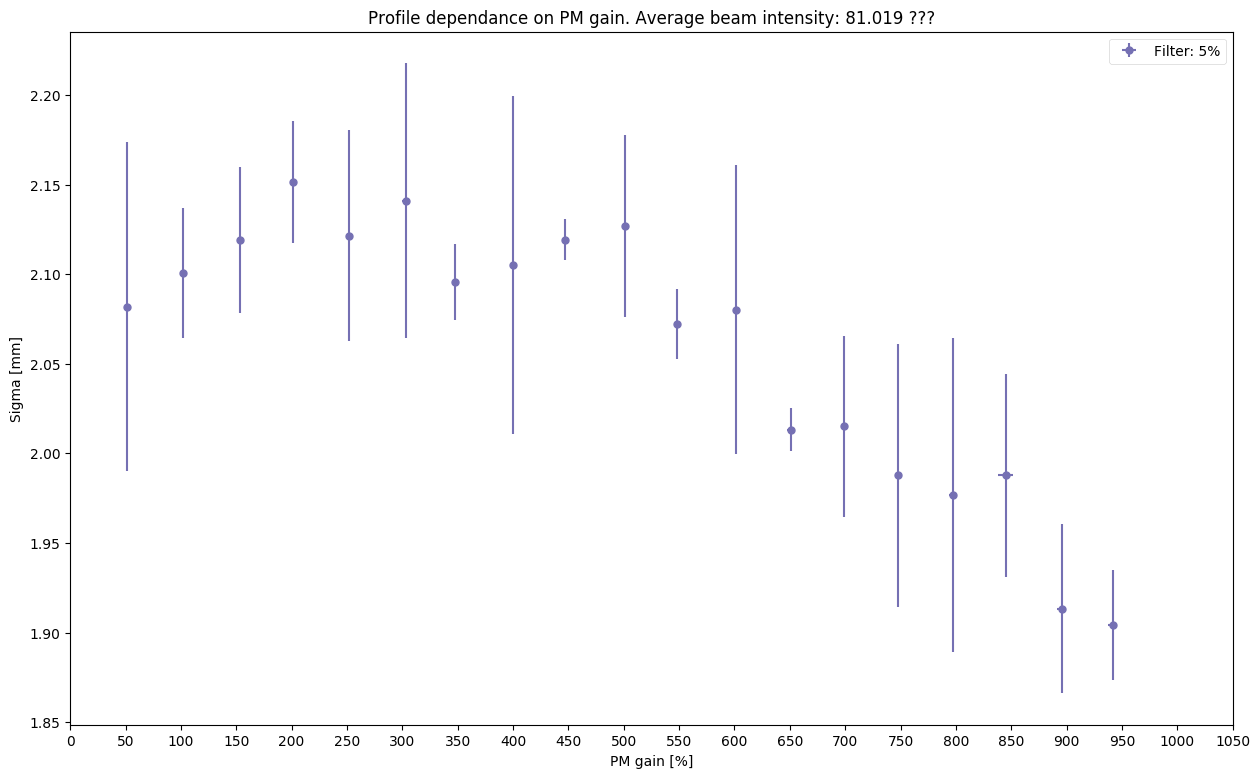
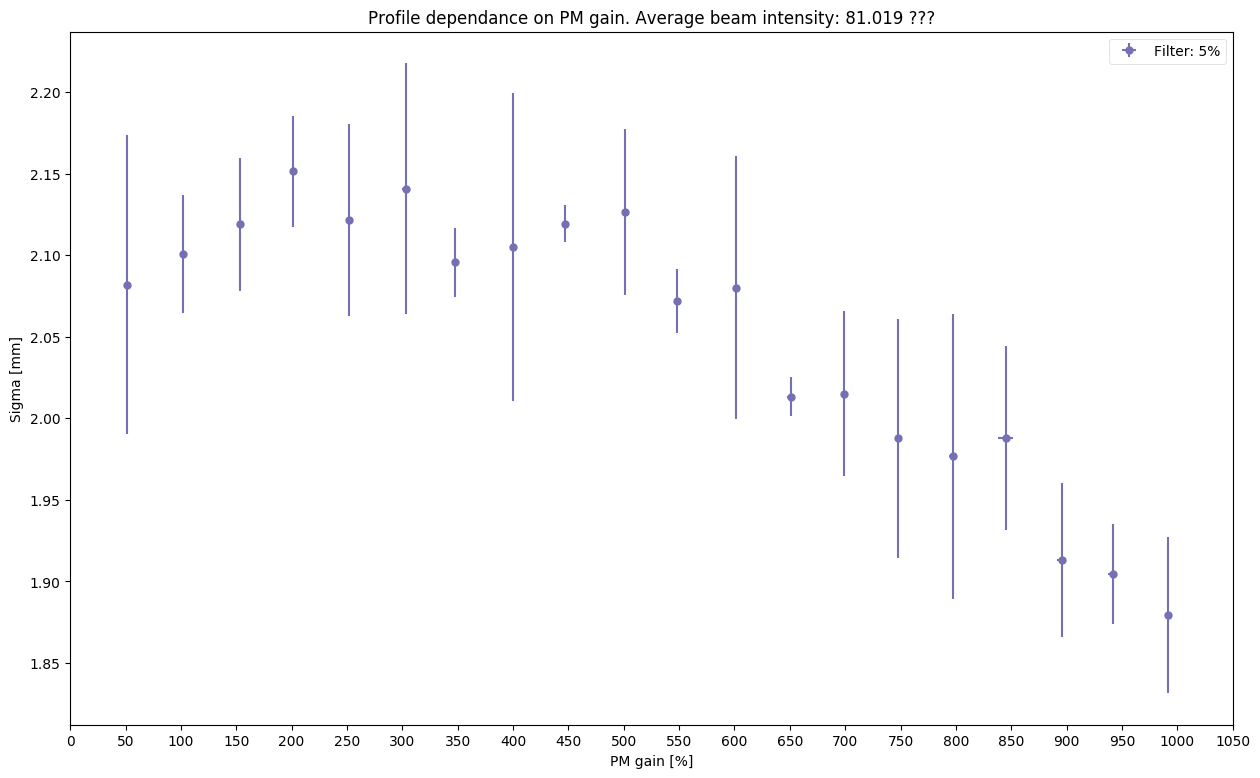
Measurement script can take data automaticaly now.

diff --git a/measure_wirescanner.py b/measure_wirescanner.py
@@ -13,147 +13,153 @@ ring = str(sys.argv[2])
 plane = str(sys.argv[3])
 wire_speed = sys.argv[4]
 
-ctime = 796
-filt = 2
-pm = 50
-run = 1
+run = [2,3,4,5,6]
+filter = [0,1,2,3,4,5,6,7]
 
-# Time of the measurement
-time_stamp = time.strftime("%Y_%m_%d_%H_%M_%S")
-print(" ")
-print(">> Script launched at:", time_stamp)
-print(" ")
+for r in run:
+    for filt in filter:
 
-# Create folder
-folder = os.path.join(os.getcwd(), ring + plane + '_' + "Filter" + str(filt) + '_' + "Speed" + str(wire_speed) + "_" + "Run" + str(run) + "__" + time_stamp)
+        ctime = 796
+        filt = filt
+        pm = 50
+        run = r
 
-if not os.path.exists(folder):
-	os.makedirs(folder)
+        # Time of the measurement
+        time_stamp = time.strftime("%Y_%m_%d_%H_%M_%S")
+        print(" ")
+        print(">> Script launched at:", time_stamp)
+        print(" ")
 
-# Start pyjapc
-japc = pyjapc.PyJapc()
-japc.setSelector(user)
-japc.rbacLogin()
+        # Create folder
+        folder = os.path.join(os.getcwd(), ring + plane + '_' + "Filter" + str(filt) + '_' + "Speed" + str(wire_speed) + "_" + "Run" + str(run) + "__" + time_stamp)
 
-def is_header(line):
-    return re.search(r'#|@|%|\$|&', line) is not None
+        if not os.path.exists(folder):
+        	os.makedirs(folder)
+
+        # Start pyjapc
+        japc = pyjapc.PyJapc()
+        japc.setSelector(user)
+        japc.rbacLogin()
+
+        def is_header(line):
+            return re.search(r'#|@|%|\$|&', line) is not None
 
 
-def get_line(infile):
-    with open(infile, 'r') as data:
-        for line in data:
-            if is_header(line):
-                continue
+        def get_line(infile):
+            with open(infile, 'r') as data:
+                for line in data:
+                    if is_header(line):
+                        continue
+                    else:
+                        yield line.strip('\n').split()
+
+
+        def get_column(infile):
+            start_line = get_line(infile).__next__()
+            data_dict = {key: [] for key, item in enumerate(start_line)}
+            for line in get_line(infile):
+                for count, item in enumerate(line):
+                    data_dict[count].append(float(item))
+            return data_dict
+
+
+        def set_ws_params(ring, plane, time_stamp, ctime, filt, pm, wire_speed):
+            japc.setParam("B" + ring + ".BWS.2L1." + plane + "_ROT" + "/Setting#acqDelay", ctime)
+            # Speeds: 10 m/s = 1, 15 m/s = 2
+            if wire_speed == '10':
+                japc.setParam("B" + ring + ".BWS.2L1." + plane + "_ROT" + "/Setting#wireSpeed", 1)
+            elif wire_speed == '15':
+                japc.setParam("B" + ring + ".BWS.2L1." + plane + "_ROT" + "/Setting#wireSpeed", 2)
+            japc.setParam("B" + ring + ".BWS.2L1." + plane + "_ROT" + "/SettingHV#gain", pm)
+            japc.setParam("B" + ring + ".BWS.2L1." + plane + "_ROT" + "/SettingHV#pmFilter", filt)
+            japc.setParam("B" + ring + ".BWS.2L1." + plane + "_ROT" + "/Setting#mode", 1)
+            print(">> ctime set to:", japc.getParam("B" + ring + ".BWS.2L1." + plane + "_ROT" + "/Setting#acqDelay"))
+            print(">> ctime in the wirescanner:", japc.getParam("B" + ring + ".BWS.2L1." + plane + "_ROT" + "/Acquisition#acqDelay"))
+            print(">> Wire speed set to:", japc.getParam("B" + ring + ".BWS.2L1." + plane + "_ROT" + "/Setting#wireSpeed"))
+            #print(">> Photomultiplier gain set to:", japc.getParam("B" + ring + ".BWS.2L1." + plane + "_ROT" + "/Acquisition#gain"))
+            print(">> Photomultiplier gain set to (not measured!):", pm)
+            print(">> Filter set to:", japc.getParam("B" + ring + ".BWS.2L1." + plane + "_ROT" + "/SettingHV#pmFilter"))
+
+
+        def get_profile(ring, plane, folder, ctime, shot):
+            try:
+                l=0
+                data_x = japc.getParam("B" + ring + ".BWS.2L1." + plane + "_ROT" + "/Acquisition#projPositionSet1")
+                data_y = japc.getParam("B" + ring + ".BWS.2L1." + plane + "_ROT" + "/Acquisition#projDataSet1")
+                data_z = japc.getParam("B" + ring + ".BWS.2L1." + plane + "_ROT" + "/Acquisition#ctrTStampSet1")
+
+                with open(os.path.join(folder, "profile_" + ring + "_" + plane + "_time" + str(ctime)  + "_speed" + str(wire_speed) + "_filter" + str(filt) + "_shot" + str(int(callback.counter/3)) + "__" + "_pm" + str(japc.getParam("B" + ring + ".BWS.2L1." + plane + "_ROT" + "/Acquisition#gain")) + "__" + ".txt"), 'w') as fout:
+                    for i, j, k in zip(data_x, data_y, data_z):
+                        if l < 3: 
+                            print(i, j, k)
+                            l += 1
+                        fout.write("{:.12E}".format(i) + "  " + "{:.12E}".format(j) + "  " + "{:.12E}".format(k) + '\n')
+                return 1
+            except TypeError:
+                print('>> No WS data. Waiting for next cycle.')
+                return 0
+
+        def record_bct(ring, ctime):
+            if not os.path.exists(os.path.join(folder, "bct")):
+                os.makedirs(os.path.join(folder, "bct"))
+            folder_bct = os.path.join(folder, "bct")
+            param_bct = ["B" + ring + ".BCT-ST/Samples#samples", "B" + ring + ".BCT-ST/Samples#firstSampleTime", "B" + ring + ".BCT-ST/Samples#samplingTrain"]
+
+            with open(os.path.join(folder_bct, "BCT_" + ring + "_" + str(ctime) + "_shot" + str(int(callback.counter/3)) + "__" ) + ".txt", "w") as bct_file:
+                intensity = japc.getParam("B" + ring + ".BCT-ST/Samples#samples")
+                first_sample_time = japc.getParam("B" + ring + ".BCT-ST/Samples#firstSampleTime")
+                sample_train = japc.getParam("B" + ring + ".BCT-ST/Samples#samplingTrain")
+                acq_time = np.linspace(first_sample_time, first_sample_time + len(intensity) - 1, len(intensity))
+
+                for i, t in zip(intensity, acq_time):
+                    bct_file.write("%s %s \n" % (i, t))
+
+
+        # Callback function
+        def callback(param_name, new_value):
+            global pm
+            callback.counter += 1
+            print('')
+            print('>> Shot', callback.counter)
+            #get_profile(ring, plane, folder, ctime, callback.counter)
+            #set_ws_params(ring, plane, time_stamp, ctime, 4, 1000, wire_speed)
+
+            if callback.counter % 3 == 1:
+                #print(callback.counter)
+                #get_profile(ring, plane, folder, ctime, callback.counter)
+                print('')
+                print('>> Setting parameters for a new scan')
+                set_ws_params(ring, plane, time_stamp, ctime, filt, pm, wire_speed)
+            elif callback.counter % 3 == 2:
+                print('')
+                print(">> Excecuting scan")
+                #print(japc.getParam("B" + ring + ".BWS.2L1." + plane + "_ROT" + "/Acquisition#projPositionSet1"))
+                #set_ws_params(ring, plane, time_stamp, ctime, 4, 1000, wire_speed)
+                #pm += 10
             else:
-                yield line.strip('\n').split()
+                print('')
+                print(">> Reading data")
+                get_profile(ring, plane, folder, ctime, callback.counter)
+                record_bct(ring, ctime)
+                pm += 50
+                #print(japc.getParam("B" + ring + ".BWS.2L1." + plane + "_ROT" + "/Acquisition#projPositionSet1"))
+            
+           
+        japc.subscribeParam("B" + ring + ".BCT-ST/Samples", callback)
+        japc.startSubscriptions()
 
 
-def get_column(infile):
-    start_line = get_line(infile).__next__()
-    data_dict = {key: [] for key, item in enumerate(start_line)}
-    for line in get_line(infile):
-        for count, item in enumerate(line):
-            data_dict[count].append(float(item))
-    return data_dict
-
-
-def set_ws_params(ring, plane, time_stamp, ctime, filt, pm, wire_speed):
-    japc.setParam("B" + ring + ".BWS.2L1." + plane + "_ROT" + "/Setting#acqDelay", ctime)
-    # Speeds: 10 m/s = 1, 15 m/s = 2
-    if wire_speed == '10':
-        japc.setParam("B" + ring + ".BWS.2L1." + plane + "_ROT" + "/Setting#wireSpeed", 1)
-    elif wire_speed == '15':
-        japc.setParam("B" + ring + ".BWS.2L1." + plane + "_ROT" + "/Setting#wireSpeed", 2)
-    japc.setParam("B" + ring + ".BWS.2L1." + plane + "_ROT" + "/SettingHV#gain", pm)
-    japc.setParam("B" + ring + ".BWS.2L1." + plane + "_ROT" + "/SettingHV#pmFilter", filt)
-    japc.setParam("B" + ring + ".BWS.2L1." + plane + "_ROT" + "/Setting#mode", 1)
-    print(">> ctime set to:", japc.getParam("B" + ring + ".BWS.2L1." + plane + "_ROT" + "/Setting#acqDelay"))
-    print(">> ctime in the wirescanner:", japc.getParam("B" + ring + ".BWS.2L1." + plane + "_ROT" + "/Acquisition#acqDelay"))
-    print(">> Wire speed set to:", japc.getParam("B" + ring + ".BWS.2L1." + plane + "_ROT" + "/Setting#wireSpeed"))
-    #print(">> Photomultiplier gain set to:", japc.getParam("B" + ring + ".BWS.2L1." + plane + "_ROT" + "/Acquisition#gain"))
-    print(">> Photomultiplier gain set to (not measured!):", pm)
-    print(">> Filter set to:", japc.getParam("B" + ring + ".BWS.2L1." + plane + "_ROT" + "/SettingHV#pmFilter"))
-
-
-def get_profile(ring, plane, folder, ctime, shot):
-    try:
-        l=0
-        data_x = japc.getParam("B" + ring + ".BWS.2L1." + plane + "_ROT" + "/Acquisition#projPositionSet1")
-        data_y = japc.getParam("B" + ring + ".BWS.2L1." + plane + "_ROT" + "/Acquisition#projDataSet1")
-        data_z = japc.getParam("B" + ring + ".BWS.2L1." + plane + "_ROT" + "/Acquisition#ctrTStampSet1")
-
-        with open(os.path.join(folder, "profile_" + ring + "_" + plane + "_time" + str(ctime)  + "_speed" + str(wire_speed) + "_filter" + str(filt) + "_shot" + str(int(callback.counter/3)) + "__" + "_pm" + str(japc.getParam("B" + ring + ".BWS.2L1." + plane + "_ROT" + "/Acquisition#gain")) + "__" + ".txt"), 'w') as fout:
-            for i, j, k in zip(data_x, data_y, data_z):
-                if l < 3: 
-                    print(i, j, k)
-                    l += 1
-                fout.write("{:.12E}".format(i) + "  " + "{:.12E}".format(j) + "  " + "{:.12E}".format(k) + '\n')
-        return 1
-    except TypeError:
-        print('>> No WS data. Waiting for next cycle.')
-        return 0
-
-def record_bct(ring, ctime):
-    if not os.path.exists(os.path.join(folder, "bct")):
-        os.makedirs(os.path.join(folder, "bct"))
-    folder_bct = os.path.join(folder, "bct")
-    param_bct = ["B" + ring + ".BCT-ST/Samples#samples", "B" + ring + ".BCT-ST/Samples#firstSampleTime", "B" + ring + ".BCT-ST/Samples#samplingTrain"]
-
-    with open(os.path.join(folder_bct, "BCT_" + ring + "_" + str(ctime) + "_shot" + str(int(callback.counter/3)) + "__" ) + ".txt", "w") as bct_file:
-        intensity = japc.getParam("B" + ring + ".BCT-ST/Samples#samples")
-        first_sample_time = japc.getParam("B" + ring + ".BCT-ST/Samples#firstSampleTime")
-        sample_train = japc.getParam("B" + ring + ".BCT-ST/Samples#samplingTrain")
-        acq_time = np.linspace(first_sample_time, first_sample_time + len(intensity) - 1, len(intensity))
-
-        for i, t in zip(intensity, acq_time):
-            bct_file.write("%s %s \n" % (i, t))
-
-
-# Callback function
-def callback(param_name, new_value):
-    global pm
-    callback.counter += 1
-    print('')
-    print('>> Shot', callback.counter)
-    #get_profile(ring, plane, folder, ctime, callback.counter)
-    #set_ws_params(ring, plane, time_stamp, ctime, 4, 1000, wire_speed)
-
-    if callback.counter % 3 == 1:
-        #print(callback.counter)
-        #get_profile(ring, plane, folder, ctime, callback.counter)
-        print('')
-        print('>> Setting parameters for a new scan')
-        set_ws_params(ring, plane, time_stamp, ctime, filt, pm, wire_speed)
-    elif callback.counter % 3 == 2:
-        print('')
-        print(">> Excecuting scan")
-        #print(japc.getParam("B" + ring + ".BWS.2L1." + plane + "_ROT" + "/Acquisition#projPositionSet1"))
-        #set_ws_params(ring, plane, time_stamp, ctime, 4, 1000, wire_speed)
-        #pm += 10
-    else:
-        print('')
-        print(">> Reading data")
-        get_profile(ring, plane, folder, ctime, callback.counter)
-        record_bct(ring, ctime)
-        pm += 50
-        #print(japc.getParam("B" + ring + ".BWS.2L1." + plane + "_ROT" + "/Acquisition#projPositionSet1"))
-    
-   
-japc.subscribeParam("B" + ring + ".BCT-ST/Samples", callback)
-japc.startSubscriptions()
-
-
-callback.counter = 0
+        callback.counter = 0
 
 
 
 
-while pm <= 1001:
-    time.sleep(0.5)
-else:
-    time.sleep(1)
-    sys.exit(">> Finished measuring.")
+        while pm <= 1001:
+            time.sleep(0.5)
+        else:
+            time.sleep(1)
+            sys.exit(">> Finished measuring.")
 
-japc.stopSubscriptions()
-japc.clearSubscriptions()
+        japc.stopSubscriptions()
+        japc.clearSubscriptions()
 

diff --git a/analyse_wirescanner.py b/analyse_wirescanner.py
@@ -226,7 +226,7 @@ for filt in filter:
 
 	bcts_final = []
 	bcts_final_errors = []
-	for i in range (0,19):
+	for i in range (0,20):
 		all_sigmas = []
 		all_sigmas_areas = []
 		all_pms = []
@@ -272,18 +272,18 @@ for filt in filter:
 	plt.xticks(np.arange(0, 1051, step=50))
 	plt.ylabel(r'Sigma [mm]')
 	plt.legend(loc='best', prop={'size': 10}).get_frame().set_linewidth(0.5)
-	# plt.savefig("sigma_on_pm_filter" + str(filt) + "_speed" + speed + ".png", bbox_inches='tight')
-	# plt.clf()
+	plt.savefig("sigma_on_pm_filter" + str(filt) + "_speed" + speed + ".png", bbox_inches='tight')
+	plt.clf()
 
-	plt.figure(4)
-	plt.errorbar(measured_data_dict[(str(filt),"bcts_final")], measured_data_dict[(str(filt),"sigmas_areas_final")], xerr = measured_data_dict[(str(filt),"bcts_final_errors")], yerr = measured_data_dict[(str(filt),"sigmas_areas_final_errors")], color=color_list(filt), fmt='o', markersize=5, label='Filter: ' + filter_list[filt])
-	# plt.fill_between(np.asarray(measured_data_dict[(str(filt),"pms_final")]), np.asarray(measured_data_dict[(str(filt),"sigmas_final")])-np.asarray(measured_data_dict[(str(filt),"sigmas_final_errors")]), np.asarray(measured_data_dict[(str(filt),"sigmas_final")])+np.asarray(measured_data_dict[(str(filt),"sigmas_final_errors")]),facecolor=color_list[filt],alpha=0.5)
-	fig = plt.gcf()
-	fig.set_size_inches(15, 9)
-	plt.title("Profile * Amplitude dependance on intensity."  + " Average beam intensity: " + str(round(mean_bct,3)) + " ???")
-	plt.xlabel('Intensity [???]')
-	plt.ylabel(r'Sigma * Amplitude [mm * mA]')
-	plt.legend(loc='best', prop={'size': 10}).get_frame().set_linewidth(0.5)
+	# plt.figure(4)
+	# plt.errorbar(measured_data_dict[(str(filt),"bcts_final")], measured_data_dict[(str(filt),"sigmas_areas_final")], xerr = measured_data_dict[(str(filt),"bcts_final_errors")], yerr = measured_data_dict[(str(filt),"sigmas_areas_final_errors")], color=color_list(filt), fmt='o', markersize=5, label='Filter: ' + filter_list[filt])
+	# # plt.fill_between(np.asarray(measured_data_dict[(str(filt),"pms_final")]), np.asarray(measured_data_dict[(str(filt),"sigmas_final")])-np.asarray(measured_data_dict[(str(filt),"sigmas_final_errors")]), np.asarray(measured_data_dict[(str(filt),"sigmas_final")])+np.asarray(measured_data_dict[(str(filt),"sigmas_final_errors")]),facecolor=color_list[filt],alpha=0.5)
+	# fig = plt.gcf()
+	# fig.set_size_inches(15, 9)
+	# plt.title("Profile * Amplitude dependance on intensity."  + " Average beam intensity: " + str(round(mean_bct,3)) + " ???")
+	# plt.xlabel('Intensity [???]')
+	# plt.ylabel(r'Sigma * Amplitude [mm * mA]')
+	# plt.legend(loc='best', prop={'size': 10}).get_frame().set_linewidth(0.5)
 	# plt.savefig("sigma_times_area_on_intensity_filter" + str(filt) + "_speed" + speed + ".png", bbox_inches='tight')
 	# plt.clf()
 
@@ -300,12 +300,12 @@ for filt in filter:
 	# plt.savefig("sigma_times_area_on_pm_filter" + str(filt) + "_speed" + speed + ".png", bbox_inches='tight')
 	# plt.clf()
 
-plt.figure(3)
-plt.savefig("all_sigma_on_pm" + "_speed" + speed + ".png", bbox_inches='tight')
+# plt.figure(3)
+# plt.savefig("all_sigma_on_pm" + "_speed" + speed + ".png", bbox_inches='tight')
 
-plt.figure(4)
-plt.savefig("all_sigma_times_area_on_intensity" + "_speed" + speed + ".png", bbox_inches='tight')
+# # plt.figure(4)
+# # plt.savefig("all_sigma_times_area_on_intensity" + "_speed" + speed + ".png", bbox_inches='tight')
 
-plt.figure(5)
-plt.savefig("all_sigma_times_area_on_pm" + "_speed" + speed + ".png", bbox_inches='tight')
+# plt.figure(5)
+# plt.savefig("all_sigma_times_area_on_pm" + "_speed" + speed + ".png", bbox_inches='tight')
 
